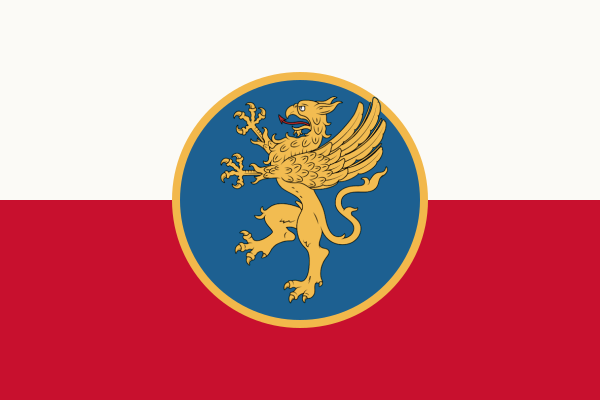
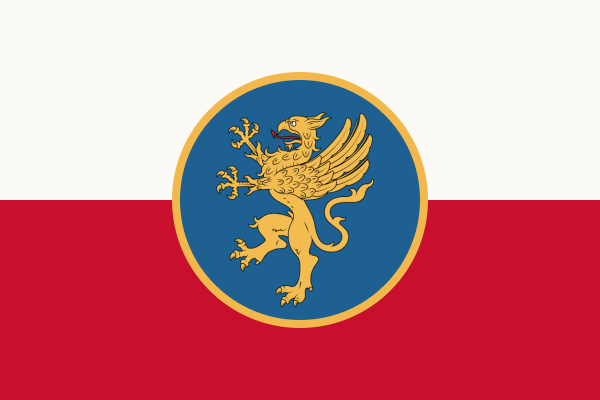
Obodryci republika: gryf wyśrodkowany w kole
Claude-Session: https://claude.ai/code/session_01PNyJEgjZDVeUSFrp2WbnmN

Changed region(s): [[0.36, 0.24, 0.66, 0.78]]

diff --git a/gfx_koncepty/flagi_polabie/generuj_flagi.py b/gfx_koncepty/flagi_polabie/generuj_flagi.py
@@ -17,7 +17,7 @@ F={
  'obodryci_1_ksiestwo': svg(f'<rect width="300" height="200" fill="{BLUE}"/><rect y="172" width="300" height="28" fill="{GOLD}"/>'+img(GO,GOW,GOH,150,88,152)),
  # Obodryci, republika kupiecka (Liubice, słowiańska Hanza): biel nad czerwienią jak barwy Hanzy, na środku błękitne koło ze złotym gryfem
  'obodryci_2_republika': svg(f'<rect width="300" height="100" fill="{WHITE}"/><rect y="100" width="300" height="100" fill="{RED}"/>'
-                            f'<circle cx="150" cy="100" r="62" fill="{BLUE}" stroke="{GOLD}" stroke-width="4"/>'+img(GO,GOW,GOH,152,100,104)),
+                            f'<circle cx="150" cy="100" r="62" fill="{BLUE}" stroke="{GOLD}" stroke-width="4"/>'+img(GO,GOW,GOH,147.5,105,98)),
  # Obodryci rewolucyjni: czerwień, złoty gryf trzyma się gwiazdy (gwiazda przed szponami)
  'obodryci_3_rewolucja': svg(f'<rect width="300" height="200" fill="{RED}"/><rect y="172" width="300" height="28" fill="{BLUE}"/>'+img(GO,GOW,GOH,162,92,150)+star(92,40,20,GOLD)),
 }
